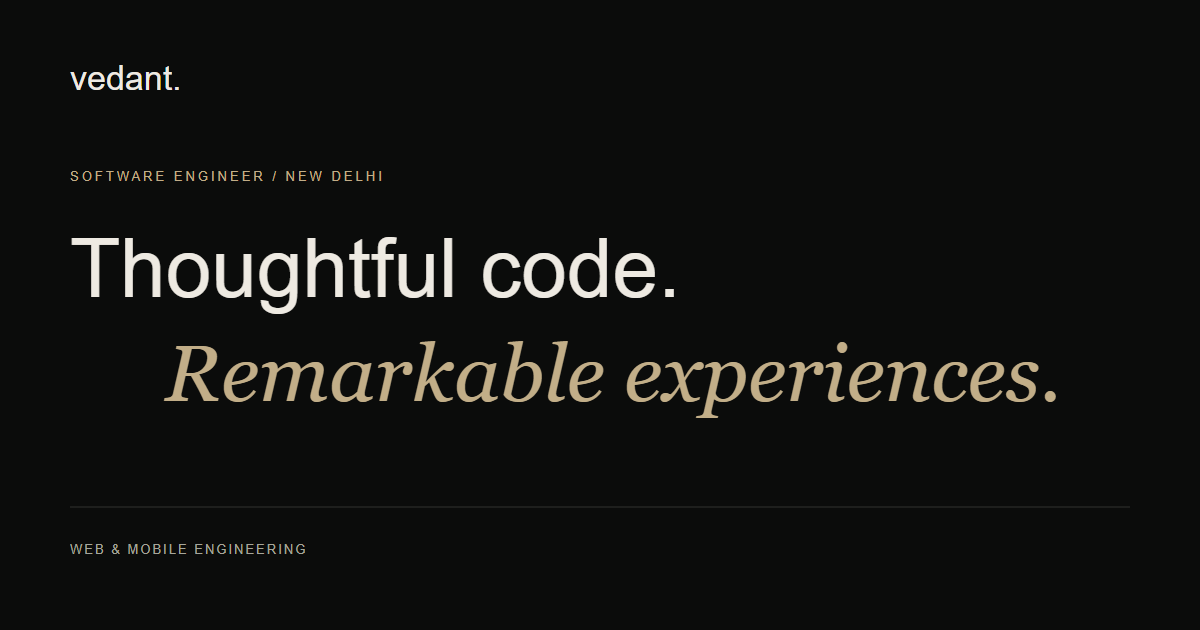
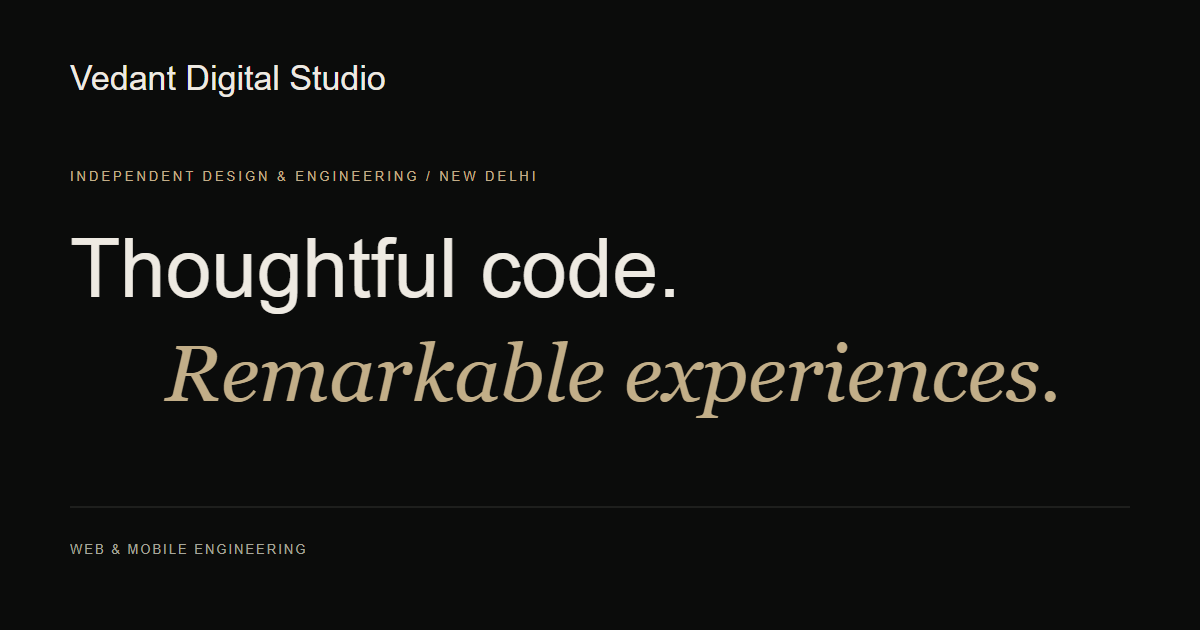
feat: establish Vedant Digital Studio identity
Reposition the existing application as an independent digital studio. Lead the homepage with capabilities and website design examples before engineering case studies, update studio navigation, metadata and social preview, and retain expressive accessible GSAP motion.

Preserve Supabase inquiries, private feedback, admin authentication, quote reference handoff and all API contracts. Document the separate personal portfolio repository and exclude its independent checkout from studio Git. Update identity expectations in browser tests; production build, lint, API checks and all browser scenarios pass. Keep this commit local so the existing studio deployment is not changed.

Changed region(s): [[0.0617, 0.0905, 0.3392, 0.1508], [0.0617, 0.2714, 0.4625, 0.3016]]

diff --git a/src/pages/Home.tsx b/src/pages/Home.tsx
@@ -35,7 +35,7 @@ export default function Home() {
   return (
     <main ref={root} id="main" tabIndex={-1}>
       <section className="hero studio-hero" id="top" aria-labelledby="hero-title">
-        <div className="hero-kicker"><span className="eyebrow">VEDANT SHUKLA / DESIGN & ENGINEERING</span><span className="hero-location">NEW DELHI, INDIA</span></div>
+        <div className="hero-kicker"><span className="eyebrow">VEDANT DIGITAL STUDIO / INDEPENDENT DESIGN & ENGINEERING</span><span className="hero-location">NEW DELHI, INDIA</span></div>
         <div className="hero-story">
           <div className="hero-copy">
             <p className="eyebrow" data-intro>GOOD IDEAS DESERVE</p>
@@ -49,8 +49,40 @@ export default function Home() {
             <a className="hero-reel-card scene-plate scene-plate--front" href="#websites"><div><img src="/images/websites/malamen-preview.webp" width={640} height={444} alt="Malamen kitchen and bar website concept" decoding="async" fetchPriority="high" /></div><span>MALAMEN / WEB DESIGN ↗</span></a>
           </div>
         </div>
-        <div className="hero-bottom"><span className="availability"><i />Open to opportunities & collaborations</span><a href="#work">SCROLL TO DISCOVER <span>↓</span></a></div>
+        <div className="hero-bottom"><span className="availability"><i />Websites · Web apps · Mobile experiences</span><a href="#work">SCROLL TO DISCOVER <span>↓</span></a></div>
       </section>
+      <section
+        id="capabilities"
+        className="capabilities container"
+        aria-labelledby="capabilities-title"
+      >
+        <div className="capabilities-intro" data-reveal>
+          <span className="eyebrow">WHAT I BRING TO THE TABLE</span>
+          <h2 id="capabilities-title">
+            From a good idea
+            <br />
+            to a <em>great product.</em>
+          </h2>
+          <p>
+            Bringing design sensitivity and engineering discipline to the same
+            table.
+          </p>
+        </div>
+        <div className="capabilities-list">
+          {capabilities.map((item, index) => (
+            <article className="capability" key={item.title} data-reveal>
+              <span className="capability-index">0{index + 1}</span>
+              <div>
+                <h3>{item.title}</h3>
+                <p>{item.text}</p>
+                <span className="capability-tags">{item.tags}</span>
+              </div>
+              <Arrow />
+            </article>
+          ))}
+        </div>
+      </section>
+      <WebsiteShowcase onReference={name => setReference({ name, request: Date.now() })} />
       <section
         id="work"
         className="work container"
@@ -58,7 +90,7 @@ export default function Home() {
       >
         <div className="section-heading" data-reveal>
           <div>
-            <span className="eyebrow">01 / SELECTED PROJECTS</span>
+            <span className="eyebrow">02 / ENGINEERING CASE STUDIES</span>
             <h2 id="work-title">
               Ideas made <em>real.</em>
             </h2>
@@ -92,38 +124,6 @@ export default function Home() {
         <div className="story-progress" aria-hidden="true"><span /></div>
         <h2 id="design-note-title"><span data-editorial>Less ordinary.</span><em data-editorial>More considered.</em></h2>
         <div className="design-note-foot"><span className="design-note-symbol" aria-hidden="true">✳</span><p>A clear idea. An unexpected detail. A little movement that feels just right. I build for the moment someone decides to stay.</p></div>
-      </section>
-      <WebsiteShowcase onReference={name => setReference({ name, request: Date.now() })} />
-      <section
-        id="capabilities"
-        className="capabilities container"
-        aria-labelledby="capabilities-title"
-      >
-        <div className="capabilities-intro" data-reveal>
-          <span className="eyebrow">WHAT I BRING TO THE TABLE</span>
-          <h2 id="capabilities-title">
-            From a good idea
-            <br />
-            to a <em>great product.</em>
-          </h2>
-          <p>
-            Bringing design sensitivity and engineering discipline to the same
-            table.
-          </p>
-        </div>
-        <div className="capabilities-list">
-          {capabilities.map((item, index) => (
-            <article className="capability" key={item.title} data-reveal>
-              <span className="capability-index">0{index + 1}</span>
-              <div>
-                <h3>{item.title}</h3>
-                <p>{item.text}</p>
-                <span className="capability-tags">{item.tags}</span>
-              </div>
-              <Arrow />
-            </article>
-          ))}
-        </div>
       </section>
       <FreelanceInquiry reference={reference} />
       <section

diff --git a/tests/portfolio.spec.ts b/tests/portfolio.spec.ts
@@ -45,7 +45,7 @@ test("homepage is usable, free of runtime errors, and contains valid project lin
   await expect(page.getByRole("heading", { level: 1 })).toContainText(
     "GREAT",
   );
-  await expect(page).toHaveTitle("Vedant Shukla — Software Engineer & Maker");
+  await expect(page).toHaveTitle("Vedant Digital Studio — Websites, Web & Mobile Apps");
   await expect(page.locator("canvas")).toHaveCount(0);
   await expect(page.locator(".project-card")).toHaveCount(5);
   for (const [slug, title] of cases)
@@ -72,7 +72,7 @@ for (const [slug, title] of cases) {
   }) => {
     await page.goto(`/projects/${slug}`);
     await expect(page.getByRole("heading", { level: 1 })).toHaveText(title);
-    await expect(page).toHaveTitle(`${title} — Vedant Shukla`);
+    await expect(page).toHaveTitle(`${title} — Vedant Digital Studio`);
     await expect(page.locator(".decision")).toHaveCount(3);
     if (slug === "vision-assistant") {
       await expect(
@@ -170,7 +170,7 @@ test("mobile menu supports focus containment, Escape, links, and breakpoint chan
   await expect(
     page
       .getByRole("navigation", { name: "Mobile navigation" })
-      .getByRole("link", { name: /Work/ }),
+      .getByRole("link", { name: /Services/ }),
   ).toBeFocused();
   await page.keyboard.press("Shift+Tab");
   await expect(page.getByRole("button", { name: "Close menu" })).toBeFocused();
@@ -234,7 +234,7 @@ test("unknown paths and unknown projects have a useful recovery path", async ({
     await expect(page.getByRole("heading", { level: 1 })).toContainText(
       "This page",
     );
-    await expect(page).toHaveTitle("Page not found — Vedant Shukla");
+    await expect(page).toHaveTitle("Page not found — Vedant Digital Studio");
     await expect(page.locator('meta[name="robots"]')).toHaveAttribute(
       "content",
       "noindex, follow",

diff --git a/src/components/ExternalLinkPrompt.tsx b/src/components/ExternalLinkPrompt.tsx
@@ -48,7 +48,7 @@ export default function ExternalLinkPrompt() {
   return <dialog ref={dialog} className="external-dialog" aria-labelledby="external-title" aria-describedby="external-description" onClose={() => { setDestination(null); origin.current?.focus({ preventScroll: true }); }}>
     <div className="external-dialog-top"><span className="eyebrow">{isEmail ? "LET’S START A CONVERSATION" : "A SMALL DETOUR"}</span><span aria-hidden="true">↗</span></div>
     <h2 id="external-title">{isEmail ? <>An idea to share?<br /><em>Let’s talk.</em></> : <>A little further.<br /><em>A new window.</em></>}</h2>
-    <p id="external-description">{isEmail ? "This will open your default email app to compose a message. Nothing is sent until you send it yourself." : "You’re about to leave this portfolio and visit another website in a new tab."}</p>
+    <p id="external-description">{isEmail ? "This will open your default email app to compose a message. Nothing is sent until you send it yourself." : "You’re about to leave this studio and visit another website in a new tab."}</p>
     <div className="external-destination"><span>{isEmail ? "EMAIL TO" : "YOUR DESTINATION"}</span><strong>{isEmail ? destination.pathname : destination?.hostname}</strong>{!isEmail && <span>{destination ? `${destination.pathname}${destination.search}${destination.hash}` : ""}</span>}</div>
     <div className="external-dialog-actions"><button className="button button-secondary" type="button" autoFocus onClick={close}>Stay here</button>{destination && <a className="button button-primary" href={destination.href} target={isEmail ? undefined : "_blank"} rel="noopener noreferrer" data-external-confirmed onClick={close}>{isEmail ? "Open email app" : "Continue"} <Arrow /></a>}</div>
     <p className="external-footnote">Your place here stays open.</p>

diff --git a/index.html b/index.html
@@ -9,16 +9,16 @@
     <meta name="theme-color" content="#0b0c0b" />
     <meta
       name="description"
-      content="Thoughtful code. Remarkable experiences. Vedant Shukla is a software engineer building considered web and mobile products in New Delhi, India."
+      content="Independent design and engineering studio creating distinctive websites and thoughtful web and mobile applications."
     />
     <meta property="og:type" content="website" />
     <meta
       property="og:title"
-      content="Vedant Shukla — Software Engineer & Maker"
+      content="Vedant Digital Studio — Websites, Web & Mobile Apps"
     />
     <meta
       property="og:description"
-      content="Explore selected web and mobile engineering work by Vedant Shukla."
+      content="Explore websites, web applications, and mobile experiences by Vedant Digital Studio."
     />
     <meta property="og:image" content="/social-card.png" />
     <meta property="og:image:width" content="1200" />
@@ -38,7 +38,7 @@
       type="font/woff2"
       crossorigin
     />
-    <title>Vedant Shukla — Software Engineer & Maker</title>
+    <title>Vedant Digital Studio — Websites, Web & Mobile Apps</title>
   </head>
   <body>
     <div id="root"></div>

diff --git a/src/components/RouteEffects.tsx b/src/components/RouteEffects.tsx
@@ -67,13 +67,13 @@ export default function RouteEffects() {
     );
     const home = location.pathname === "/";
     const title = project
-      ? `${project.title} — Vedant Shukla`
+      ? `${project.title} — Vedant Digital Studio`
       : home
-        ? "Vedant Shukla — Software Engineer & Maker"
-        : location.pathname === "/admin" ? "Project enquiries — Vedant Shukla" : "Page not found — Vedant Shukla";
+        ? "Vedant Digital Studio — Websites, Web & Mobile Apps"
+        : location.pathname === "/admin" ? "Project enquiries — Vedant Digital Studio" : "Page not found — Vedant Digital Studio";
     const description =
       project?.description ??
-      "Thoughtful code. Remarkable experiences. Vedant Shukla is a software engineer building considered web and mobile products in New Delhi, India.";
+      "Vedant Digital Studio is an independent design and engineering studio creating distinctive websites and thoughtful web and mobile applications.";
     document.title = title;
     const meta = (key: string, value: string) => {
       const attribute = key.startsWith("og:") ? "property" : "name";

diff --git a/tests/admin.spec.ts b/tests/admin.spec.ts
@@ -41,7 +41,7 @@ test('admin login, inbox status change, reply and logout', async ({ page }) => {
   await page.route('**/api/inquiries?*', route => route.fulfill({ json: { total: 1, items: [{ _id: 'a'.repeat(24), name: 'Asha', email: 'asha@example.com', service: 'Website', timeline: '1–3 months', message: 'Build a cafe site', status, createdAt: '2026-09-29T10:00:00Z' }] } }));
   await page.route('**/api/inquiries', route => { status = route.request().postDataJSON().status; return route.fulfill({ json: { item: { _id: 'a'.repeat(24), name: 'Asha', email: 'asha@example.com', service: 'Website', timeline: '1–3 months', message: 'Build a cafe site', status, createdAt: '2026-09-29T10:00:00Z' } } }); });
   await page.goto('/admin');
-  await expect(page).toHaveTitle('Project enquiries — Vedant Shukla');
+  await expect(page).toHaveTitle('Project enquiries — Vedant Digital Studio');
   await expect(page.locator('meta[name="robots"]')).toHaveAttribute('content', 'noindex, follow');
   await page.getByLabel('Admin password').fill('test-password');
   await page.getByRole('button', { name: 'Sign in', exact: true }).click();

diff --git a/src/components/NavBar.tsx b/src/components/NavBar.tsx
@@ -55,6 +55,7 @@ export default function NavBar() {
   }, [open]);
 
   const links = [
+    ["Services", "/#capabilities"],
     ["Work", "/#work"],
     ["Web designs", "/#websites"],
     ["About", "/#about"],
@@ -66,12 +67,12 @@ export default function NavBar() {
         <Link
           className="wordmark"
           to="/"
-          aria-label="Vedant Shukla — home"
+          aria-label="Vedant Digital Studio — home"
           onClick={() => setOpen(false)}
         >
           Vedant<span>.</span>
         </Link>
-        <span className="nav-caption">ENGINEER & MAKER</span>
+        <span className="nav-caption">DIGITAL STUDIO</span>
         <nav className="desktop-nav" aria-label="Main navigation">
           {links.map(([label, to]) => (
             <Link

diff --git a/src/components/Footer.tsx b/src/components/Footer.tsx
@@ -8,7 +8,7 @@ export default function Footer() {
         <span className="eyebrow">04 / START A CONVERSATION</span>
         <span className="availability">
           <i />
-          Open to opportunities & collaborations
+          Independent design & engineering
         </span>
       </div>
       <a className="contact-title" href={`mailto:${contact.email}`}>
@@ -27,7 +27,7 @@ export default function Footer() {
         </p>
       </div>
       <div className="footer-bottom">
-        <span>© {new Date().getFullYear()} Vedant Shukla</span>
+        <span>© {new Date().getFullYear()} Vedant Digital Studio</span>
         <span className="footer-note">
           Thoughtfully built. Always evolving.
         </span>

diff --git a/artifacts/STUDIO_SPLIT.md b/artifacts/STUDIO_SPLIT.md
@@ -1,0 +1,11 @@
+# Digital studio split — 1 October 2026
+
+Existing repository renamed to veha2309/vedant-digital-studio. Local origin updated. Studio changes are local-only to avoid a Git push triggering the existing Vercel deployment.
+
+Studio identity, metadata, navigation and footer updated. Homepage now introduces services, website examples, and engineering case studies. Quotes, admin, private feedback and all Supabase API contracts remain unchanged.
+
+Separate independent repository source: personal-portfolio/ (ignored by studio Git). No backend or private configuration copied.
+
+Validation: studio build/lint pass; 12 API tests pass; 29/31 initial browser checks passed, then all 17 navigation/layout checks passed after updating the expected studio title and first mobile-menu item. Quote, private feedback, admin, gallery and email/external prompt checks passed.
+
+Final validation: 30/31 full-suite checks passed, then all four admin tests passed after correcting the expected studio title. All 31 browser scenarios are passing across the full run and targeted rerun. Scroll p95 17.2 ms, one frame over 50 ms, no long tasks or runtime errors in an unthrottled headless desktop lab run.

diff --git a/README.md b/README.md
@@ -1,3 +1,15 @@
+# Vedant Digital Studio
+
+Independent website, web application and mobile design & engineering studio by Vedant Shukla.
+
+Repository: https://github.com/veha2309/vedant-digital-studio
+
+The separate frontend-only personal portfolio is https://github.com/veha2309/vedant-portfolio, deployed at https://vedant-portfolio-seven-orcin.vercel.app. Its local checkout is `personal-portfolio/`, excluded from this repository.
+
+Studio rebranding is verified locally and has not been deployed. Existing Vercel and Supabase configuration remain unchanged.
+
+---
+
 # Vedant Shukla — Cinematic Developer Portfolio
 
 An interactive portfolio built as two connected experiences: a restrained editorial interface and an optional futuristic Game Mode. The site presents selected product work through cinematic motion, spatial project exploration, responsive layouts, and performance-aware interaction design.
